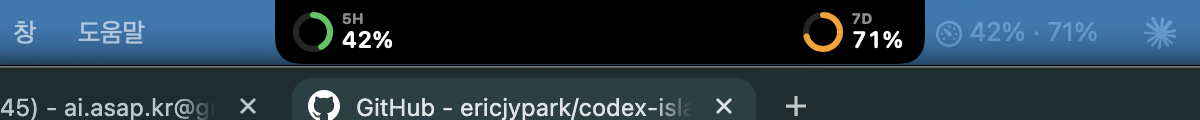
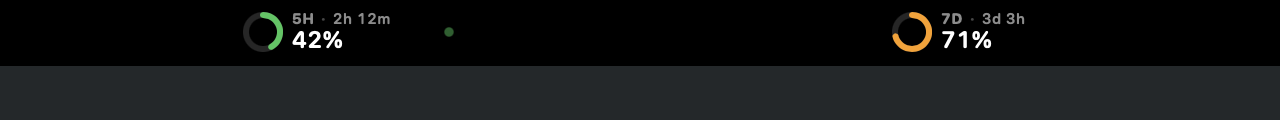
Reset countdown in gauges and activity pulse beside the notch

diff --git a/Sources/NotchUsage/NotchView.swift b/Sources/NotchUsage/NotchView.swift
@@ -4,12 +4,13 @@ import SwiftUI
 /// hovered it drops down to show both windows with reset timers.
 struct NotchView: View {
     @EnvironmentObject var store: UsageStore
+    @ObservedObject private var activity = ActivityMonitor.shared
     let geometry: NotchGeometry
 
     @State private var hovering = ProcessInfo.processInfo.environment["NOTCHUSAGE_EXPANDED"] == "1"
     @State private var collapseTask: Task<Void, Never>?
 
-    private let sideWidth: CGFloat = 70
+    private let sideWidth: CGFloat = 104
     private let expandedWidth: CGFloat = 440
     private var collapsedWidth: CGFloat { geometry.notchWidth + sideWidth * 2 }
 
@@ -55,11 +56,16 @@ struct NotchView: View {
     // MARK: Collapsed row (also the header when expanded)
 
     private var gaugeRow: some View {
-        HStack(spacing: 0) {
-            MiniGauge(label: "5H", window: store.usage?.fiveHour, error: store.errorMessage != nil && store.usage == nil)
+        let failed = store.errorMessage != nil && store.usage == nil
+        return HStack(spacing: 0) {
+            MiniGauge(label: "5H", window: store.usage?.fiveHour, error: failed)
                 .frame(width: sideWidth)
-            Spacer().frame(width: hovering ? max(expandedWidth, collapsedWidth) - sideWidth * 2 : geometry.notchWidth)
-            MiniGauge(label: "7D", window: store.usage?.sevenDay, error: store.errorMessage != nil && store.usage == nil)
+            Spacer()
+            ActivityDot(active: activity.isActive)
+                .padding(.trailing, 6)
+            Spacer().frame(width: geometry.notchWidth)
+            Spacer()
+            MiniGauge(label: "7D", window: store.usage?.sevenDay, error: failed)
                 .frame(width: sideWidth)
         }
     }
@@ -93,6 +99,12 @@ struct NotchView: View {
         HStack(spacing: 8) {
             Text(store.planText)
             if let src = store.sourceName { Text("·").opacity(0.4); Text(src) }
+            Text("·").opacity(0.4)
+            HStack(spacing: 4) {
+                Circle().fill(activity.isActive ? Color(red: 0.20, green: 0.78, blue: 0.35) : .white.opacity(0.25))
+                    .frame(width: 6, height: 6)
+                Text(activity.isActive ? "working" : (activity.runningSessions > 0 ? "\(activity.runningSessions) idle" : "no session"))
+            }
             Spacer()
             if let t = store.lastUpdated {
                 TimelineView(.periodic(from: .now, by: 30)) { ctx in
@@ -134,9 +146,19 @@ struct MiniGauge: View {
             Ring(fraction: window?.fraction, color: error ? .red : usageColor(window?.fraction))
                 .frame(width: 17, height: 17)
             VStack(alignment: .leading, spacing: -1) {
-                Text(label)
+                TimelineView(.periodic(from: .now, by: 30)) { ctx in
+                    HStack(spacing: 3) {
+                        Text(label)
+                        if let r = window?.resetsAt {
+                            Text("·").opacity(0.5)
+                            Text(relativeText(until: r, from: ctx.date)).fontWeight(.medium)
+                        }
+                    }
                     .font(.system(size: 7.5, weight: .bold, design: .rounded))
+                    .monospacedDigit()
                     .foregroundStyle(.white.opacity(0.55))
+                    .lineLimit(1)
+                }
                 Text(window?.percentText ?? (error ? "!" : "–"))
                     .font(.system(size: 11.5, weight: .semibold, design: .rounded))
                     .monospacedDigit()
@@ -144,6 +166,25 @@ struct MiniGauge: View {
             }
         }
         .frame(maxWidth: .infinity)
+    }
+}
+
+/// Small dot beside the notch that breathes while Claude Code is writing a transcript.
+struct ActivityDot: View {
+    let active: Bool
+    @State private var pulse = false
+
+    var body: some View {
+        Circle()
+            .fill(Color(red: 0.20, green: 0.78, blue: 0.35))
+            .frame(width: 6, height: 6)
+            .scaleEffect(pulse ? 1.25 : 0.75)
+            .opacity(active ? (pulse ? 1 : 0.45) : 0)
+            .shadow(color: Color(red: 0.20, green: 0.78, blue: 0.35).opacity(pulse ? 0.8 : 0), radius: 4)
+            .animation(active ? .easeInOut(duration: 0.9).repeatForever(autoreverses: true) : .default, value: pulse)
+            .animation(.easeOut(duration: 0.3), value: active)
+            .onAppear { pulse = true }
+            .frame(width: 10, height: 10)
     }
 }
 

diff --git a/Sources/NotchUsage/ActivityMonitor.swift b/Sources/NotchUsage/ActivityMonitor.swift
@@ -1,0 +1,100 @@
+import Foundation
+import CoreServices
+import Darwin
+
+/// Detects whether Claude Code is actively working right now.
+/// Signal 1: transcript writes under ~/.claude/projects (FSEvents) — tokens are flowing.
+/// Signal 2: number of running `claude` processes (polled) — sessions open.
+@MainActor
+final class ActivityMonitor: ObservableObject {
+    static let shared = ActivityMonitor()
+
+    @Published private(set) var lastActivity: Date?
+    @Published private(set) var runningSessions = 0
+    @Published private(set) var isActive = false
+
+    /// How long after the last transcript write we still show the pulse.
+    var activeWindow: TimeInterval = 20
+
+    private var stream: FSEventStreamRef?
+    private var timer: Timer?
+
+    private init() {}
+
+    func start() {
+        startWatching()
+        tick()
+        timer = Timer.scheduledTimer(withTimeInterval: 5, repeats: true) { [weak self] _ in
+            Task { @MainActor in self?.tick() }
+        }
+    }
+
+    private func tick() {
+        runningSessions = Self.countClaudeProcesses()
+        isActive = lastActivity.map { Date().timeIntervalSince($0) < activeWindow } ?? false
+    }
+
+    func touch() {
+        lastActivity = Date()
+        isActive = true
+    }
+
+    // MARK: FSEvents on the transcript directory
+
+    private static var projectsDir: String {
+        let env = ProcessInfo.processInfo.environment
+        let base = env["CLAUDE_CONFIG_DIR"] ?? (NSHomeDirectory() + "/.claude")
+        return base + "/projects"
+    }
+
+    private func startWatching() {
+        let path = Self.projectsDir
+        guard FileManager.default.fileExists(atPath: path) else {
+            Log.info("no transcript dir at \(path); activity pulse disabled")
+            return
+        }
+        var ctx = FSEventStreamContext(version: 0,
+                                       info: Unmanaged.passUnretained(self).toOpaque(),
+                                       retain: nil, release: nil, copyDescription: nil)
+        let callback: FSEventStreamCallback = { _, info, count, paths, _, _ in
+            guard let info else { return }
+            let monitor = Unmanaged<ActivityMonitor>.fromOpaque(info).takeUnretainedValue()
+            // Only transcript files count; ignore directory chatter.
+            let list = unsafeBitCast(paths, to: NSArray.self)
+            let hit = (0..<count).contains { (list[$0] as? String)?.hasSuffix(".jsonl") ?? false }
+            if hit { Task { @MainActor in monitor.touch() } }
+        }
+        guard let s = FSEventStreamCreate(nil, callback, &ctx, [path] as CFArray,
+                                          FSEventStreamEventId(kFSEventStreamEventIdSinceNow), 1.0,
+                                          FSEventStreamCreateFlags(kFSEventStreamCreateFlagFileEvents | kFSEventStreamCreateFlagNoDefer)) else {
+            Log.error("FSEventStreamCreate failed")
+            return
+        }
+        FSEventStreamSetDispatchQueue(s, .main)
+        FSEventStreamStart(s)
+        stream = s
+    }
+
+    // MARK: Process scan
+
+    /// Counts processes whose executable is Claude Code (`claude` CLI or the npm package binary).
+    nonisolated static func countClaudeProcesses() -> Int {
+        var n = proc_listallpids(nil, 0)
+        guard n > 0 else { return 0 }
+        var pids = [pid_t](repeating: 0, count: Int(n) + 32)
+        n = proc_listallpids(&pids, Int32(pids.count * MemoryLayout<pid_t>.size))
+        var count = 0
+        var buf = [CChar](repeating: 0, count: Int(4 * MAXPATHLEN))
+        let me = getpid()
+        for pid in pids.prefix(Int(n)) where pid > 0 && pid != me {
+            buf[0] = 0
+            guard proc_pidpath(pid, &buf, UInt32(buf.count)) > 0 else { continue }
+            let path = String(cString: buf)
+            let base = (path as NSString).lastPathComponent
+            if base == "claude" || path.contains("@anthropic-ai/claude-code/") || path.contains("/claude-code/bin/") {
+                count += 1
+            }
+        }
+        return count
+    }
+}

diff --git a/Sources/NotchUsage/UsageStore.swift b/Sources/NotchUsage/UsageStore.swift
@@ -46,6 +46,8 @@ final class UsageStore: ObservableObject {
                           sevenDay: UsageWindow(utilization: 71, resetsAt: Date().addingTimeInterval(3 * 86400 + 4 * 3600)),
                           sevenDayOpus: UsageWindow(utilization: 18, resetsAt: Date().addingTimeInterval(3 * 86400 + 4 * 3600)))
             plan = "max"; sourceName = "mock"; lastUpdated = Date()
+            ActivityMonitor.shared.activeWindow = 3600
+            ActivityMonitor.shared.touch()
             return
         }
         refresh()

diff --git a/Sources/NotchUsage/App.swift b/Sources/NotchUsage/App.swift
@@ -56,6 +56,7 @@ final class AppDelegate: NSObject, NSApplicationDelegate {
         NSApp.setActivationPolicy(.accessory)
         let store = UsageStore.shared
         store.start()
+        ActivityMonitor.shared.start()
         rebuildPanel()
 
         observers.append(NotificationCenter.default.addObserver(

diff --git a/README.md b/README.md
@@ -10,6 +10,8 @@ Hover the notch to see your **5-hour session** and **weekly** utilization with r
 - Reads the same numbers that Claude Code's `/usage` shows (`api.anthropic.com/api/oauth/usage`).
 - No API key, no extra cost. It reuses the Claude Code login already on your Mac.
 - Auto-refreshes the OAuth token when it expires (same flow Claude Code uses) and writes it back so `claude` keeps working too. Can be turned off in the menu.
+- Reset countdown next to each gauge, even when collapsed.
+- A small green dot beside the notch pulses while Claude Code is writing a transcript (FSEvents on `~/.claude/projects`); the expanded footer shows whether sessions are working, idle, or absent.
 - Polls once a minute, backs off on `429`.
 - Launch at login, show/hide notch island, show/hide % in the menu bar.
 
@@ -51,7 +53,7 @@ Environment flags for development:
 - **Menu bar shows `!`** – open the menu to read the error. Most common: the token *and* its refresh token are expired. Run `claude` in Terminal and `/login` once; the app picks it up on the next poll.
 - **`Keychain error`** – you denied the Keychain prompt. Quit the app, open Keychain Access, find "Claude Code-credentials" → Access Control, and add NotchUsage, or just relaunch and click Always Allow.
 - **Rebuilt the app and the prompt is back** – ad-hoc signatures change with every build. Sign with your own Developer ID in `Scripts/build-app.sh` if that bothers you.
-- **Island overlaps a menu bar icon** – it extends 70pt on each side of the notch. Turn it off with "Show in Notch" and rely on the menu bar item, or shrink `sideWidth` in `NotchView.swift`.
+- **Island overlaps a menu bar icon** – it extends about 100pt on each side of the notch. Turn it off with "Show in Notch" and rely on the menu bar item, or shrink `sideWidth` in `NotchView.swift`.
 
 ## Privacy
 
@@ -69,6 +71,8 @@ MIT
 
 - Claude Code의 `/usage`와 같은 엔드포인트를 그대로 읽습니다. 별도 API 키나 추가 비용이 없습니다.
 - 맥에 이미 로그인된 Claude Code 자격증명(키체인)을 재사용하고, 만료되면 Claude Code와 같은 방식으로 토큰을 갱신해 다시 저장합니다. 메뉴에서 끌 수 있습니다.
+- 접힌 상태에서도 게이지 옆에 리셋까지 남은 시간 표시.
+- Claude Code가 대화 기록을 쓰는 동안 노치 옆 초록 점이 맥박처럼 뜁니다(`~/.claude/projects` 파일 이벤트). 펼치면 세션이 작업 중인지, 대기 중인지, 없는지 하단에 표시.
 - 1분마다 갱신, `429`면 대기.
 - 로그인 시 실행, 노치 표시 켜고 끄기, 메뉴바 % 표시 켜고 끄기.
 
@@ -86,4 +90,4 @@ make run
 
 - **메뉴바에 `!`** 메뉴를 열면 오류 메시지가 보입니다. 대개 토큰과 갱신 토큰이 모두 만료된 경우이므로 터미널에서 `claude`를 실행해 `/login`을 한 번 하면 됩니다.
 - **키체인 오류** 접근을 거부한 경우입니다. 앱을 다시 열고 항상 허용을 누르거나, 키체인 접근 앱에서 "Claude Code-credentials" 항목의 접근 제어에 NotchUsage를 추가하세요.
-- **메뉴바 아이콘과 겹침** 노치 양옆으로 70pt씩 뻗습니다. "Show in Notch"를 끄거나 `NotchView.swift`의 `sideWidth`를 줄이세요.
+- **메뉴바 아이콘과 겹침** 노치 양옆으로 100pt 정도씩 뻗습니다. "Show in Notch"를 끄거나 `NotchView.swift`의 `sideWidth`를 줄이세요.
